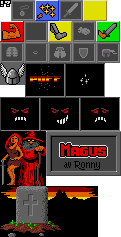
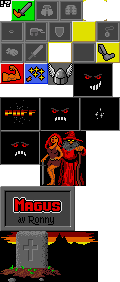
add cursor and selection

diff --git a/src/world/world.js b/src/world/world.js
@@ -42,10 +42,10 @@ export default class World {
       }
     }
     this.actors = [];
-    this.createActor(this.config.actorTypes.elfMale, 0, 0, true);
-    this.createActor(this.config.actorTypes.djinn, 0, -9, true);
+    this.createActor(this.config.actorTypes.druidMale, 0, 0, true);
+    this.createActor(this.config.actorTypes.djinn, 0, -9);
     this.createActor(this.config.actorTypes.demon, 2, 2);
-    this.createActor(this.config.actorTypes.orch, 9, 9);
+    this.createActor(this.config.actorTypes.orch, 9, 9, true);
     this.nextActor();
   }
 
@@ -97,13 +97,23 @@ export default class World {
     // player can also interrupt the movement of the character with a left
     // click that cancels any orders.
     if (actor.isPC) {
-      this.updateVisibleTiles();
       this.pausedFor = actor;
-      this.selected = actor;
+      this.select(actor);
+      this.updateVisibleTiles();
     } else {
       this.updateTarget(actor);
-      actor.act();
     }
+  }
+
+
+  /**
+   *
+   * @param {*} actor
+   * @memberof World
+   */
+  select(actor) {
+    this.selected = actor;
+    this.events.emit('select', actor);
   }
 
   /**
@@ -140,7 +150,7 @@ export default class World {
 
         // Iterate through all the tiles around the actor and determine if they
         // are in the line of sight of the actor or not.
-        this.fovcomputer.compute(actor.x, actor.y, 3, (x, y) => {
+        this.fovcomputer.compute(actor.x, actor.y, 13, (x, y) => {
           // Add the position of tile to list of positions visible for the
           // actor to help it determine if it can be ranged attacked by the
           // actor.
@@ -195,19 +205,16 @@ export default class World {
    * @memberof World
    */
   updateTarget(actor) {
-
     // Iterate through all the tiles around the actor and determine if they
     // are in the line of sight of the actor or not.
-    this.fovcomputer.compute(actor.x, actor.y, 3, (x, y) => {
-      // Add the position of tile to list of positions visible for the
-      // actor to help it determine if it can be ranged attacked by the
-      // actor.
+    this.fovcomputer.compute(actor.x, actor.y, 13, (x, y) => {
       this.actors.forEach((otherActor) => {
         if (otherActor.isPC && otherActor.x === x && otherActor.y === y) {
           this.giveOrder(actor, 'move', x, y);
         }
       });
     });
+    actor.act();
   }
 
   /**
@@ -252,7 +259,7 @@ export default class World {
    */
   walksOnXY(x, y) {
     const terrain = this.map.get(`terrain,${x},${y}`);
-    if (terrain.type.walkable) {
+    if (terrain && terrain.type.walkable) {
       return true;
     }
     return false;

diff --git a/src/worldScene.js b/src/worldScene.js
@@ -29,7 +29,15 @@ export default class WorldScene extends Phaser.Scene {
     this.controller = new WorldController(this.world);
     this.input.on('gameobjectup', this.controller.onClick, this.controller);
     this.world.events.on('add', this.addEntity, this);
+    const select = this.add.image(512, 288, 'gui', 'select');
+    select.setDepth(1);
+    this.world.events.on('select', (actor) => {
+      select.x = 512 + actor.x * 24;
+      select.y = 288 + actor.y * 21;
+    });
     this.world.create();
+    this.cursor = this.add.image(512, 309, 'gui', 'cursor');
+    this.cursor.setDepth(1);
   }
 
   /**
@@ -45,6 +53,10 @@ export default class WorldScene extends Phaser.Scene {
         'tiles',
         entity.type.name,
     ).setData('data', entity).setInteractive().setAlpha(0);
+    entityImage.on('pointerover', () => {
+      this.cursor.x = entityImage.x;
+      this.cursor.y = entityImage.y;
+    });
     entity.events.on('reveal', () => {
       entityImage.setAlpha(1);
     });
@@ -52,7 +64,6 @@ export default class WorldScene extends Phaser.Scene {
       entityImage.setAlpha(entity.layer === 'actor' ? 0 : 0.5);
     });
     entity.events.on('move', () => {
-      console.log('added', entity.x, entity.y);
       entity.timeline.add({
         targets: entityImage,
         x: 512 + entity.x * 24,
@@ -62,8 +73,6 @@ export default class WorldScene extends Phaser.Scene {
     });
     entity.events.on('show', () => {
       entity.timeline.play();
-      console.log(entity.timeline);
-      console.log('played', entity.type.name);
       entity.timeline = this.tweens.createTimeline();
     });
     entity.timeline = this.tweens.createTimeline();

diff --git a/src/world/worldController.js b/src/world/worldController.js
@@ -28,6 +28,7 @@ export default class WorldController {
     if (pointer.button === 0 && targeted.layer === 'actor') {
       console.log('left clicked', targeted.type.name);
       selected = targeted;
+      this.world.select(targeted);
       console.log('selected', targeted.type.name);
     }
     if (pointer.button === 2 &&
@@ -43,12 +44,15 @@ export default class WorldController {
         }
       } else {
         console.log('right clicked', targeted.x, targeted.y);
+        console.log('selected', selected.type.name);
+        console.log('pausedFor', this.world.pausedFor.type.name);
         if (selected === this.world.pausedFor) {
           console.log(selected.type.name, 'moved');
           this.world.giveOrder(selected, 'move', targeted.x, targeted.y);
           selected.act();
         } else {
           console.log(selected.type.name, 'will move');
+          this.world.giveOrder(selected, 'move', targeted.x, targeted.y);
         }
       }
     }

diff --git a/src/world/actor/actor.js b/src/world/actor/actor.js
@@ -109,8 +109,8 @@ export default class Actor {
   }
 
   /**
-   * The act is getting called by the scheduler every time when this actor is
-   * ready to act.
+   * The act is getting called by the world or by the controller every time
+   * when this actor is ready to act.
    *
    * @memberof Actor
    */
